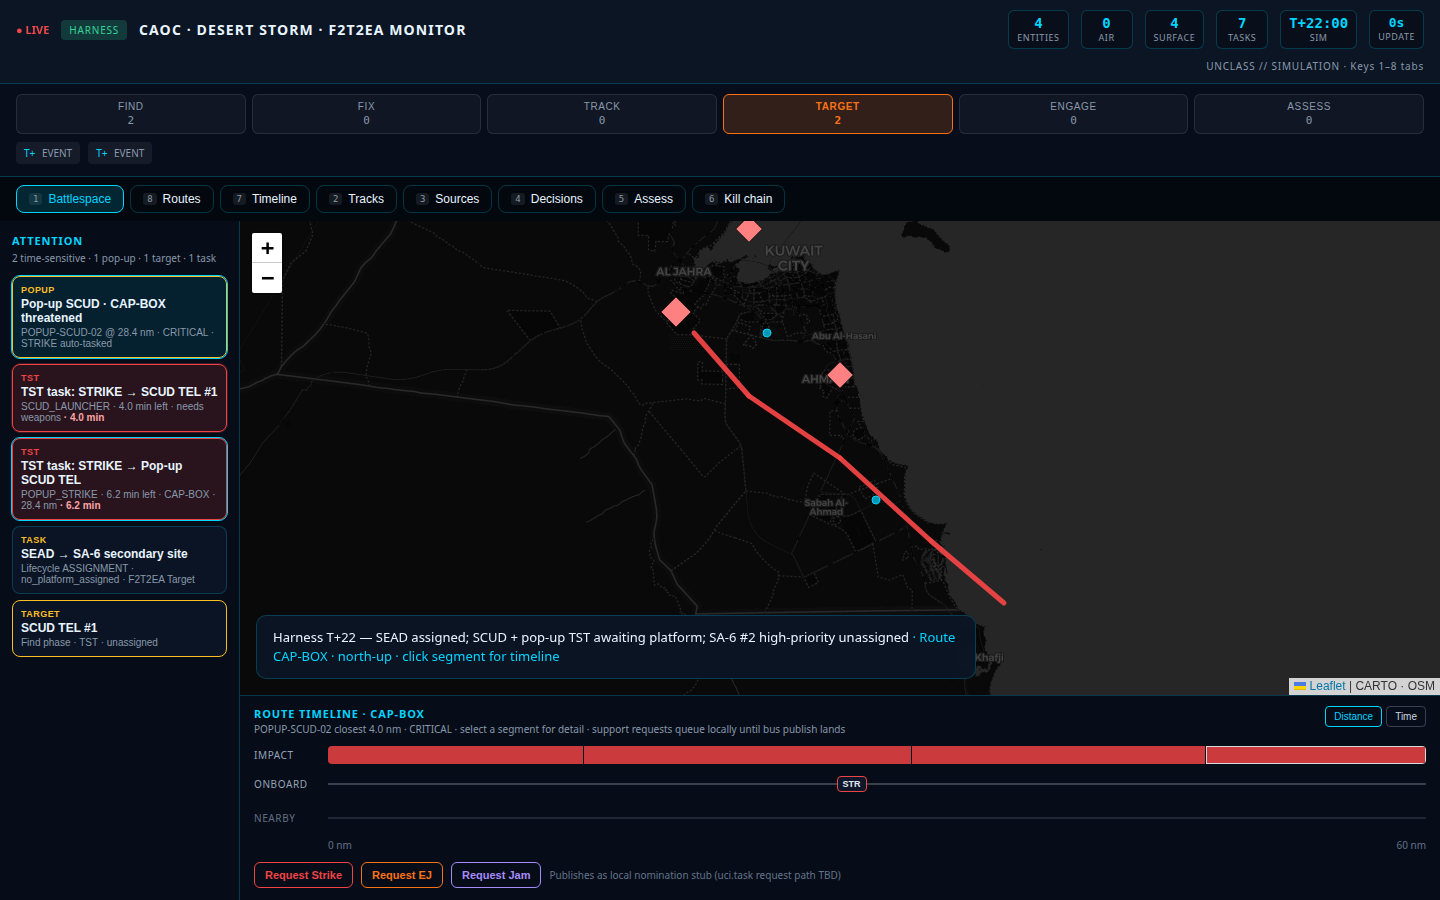
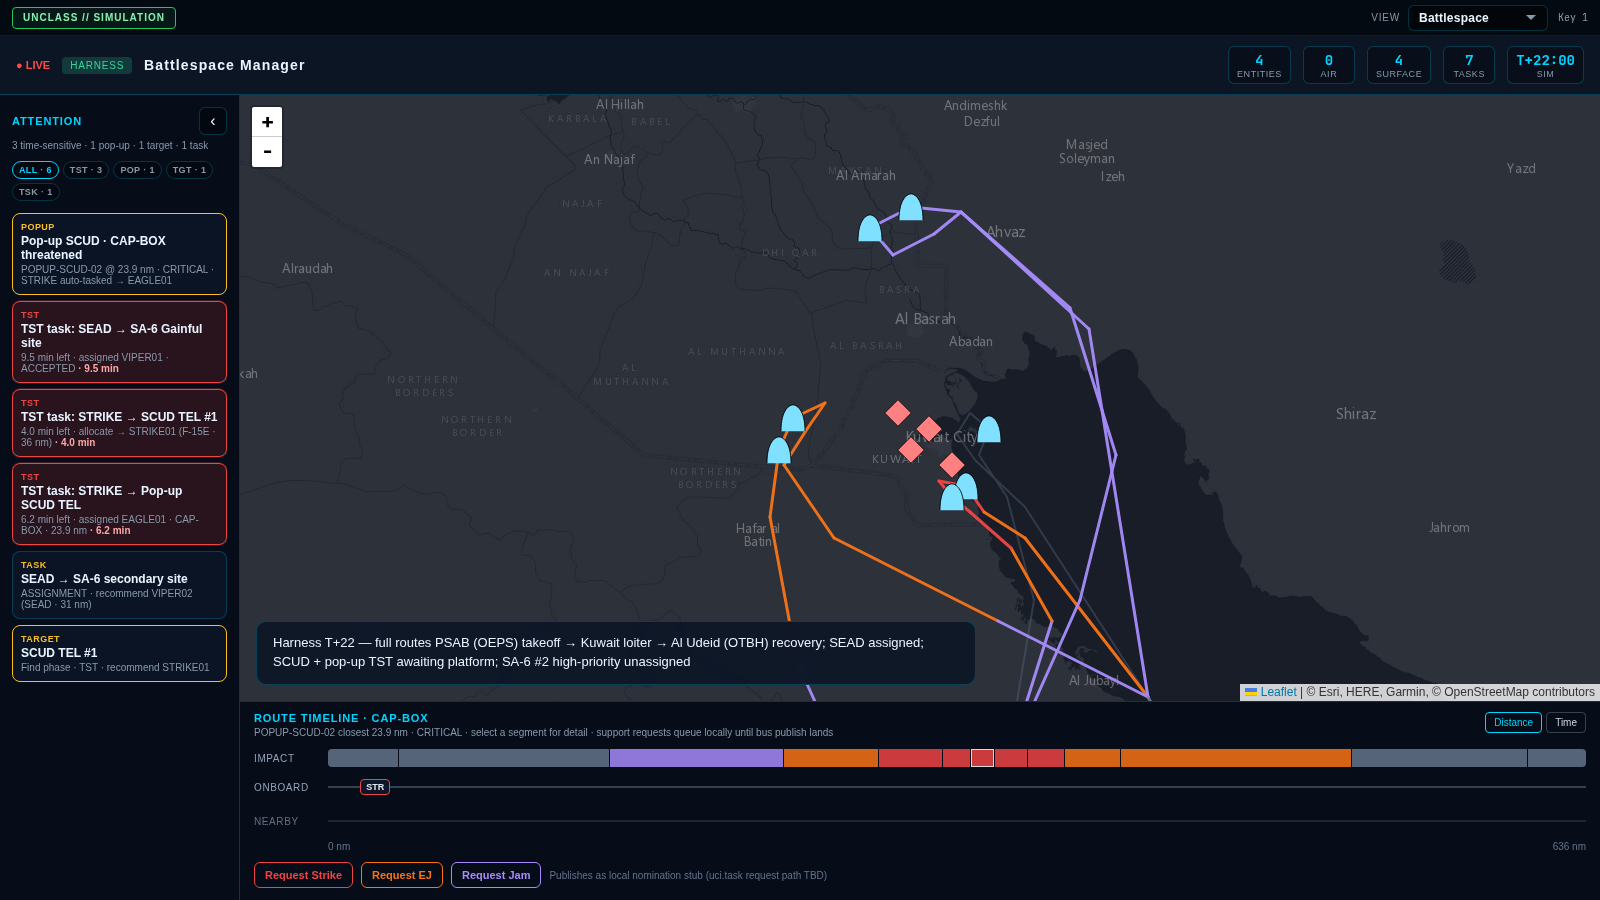
Standardize display maps on the suite dark base map (key-free Esri dark gray tiles) (#39)
* Standardize display maps on the suite dark base map (Leaflet + CartoDB Dark Matter)

- Add a per-service, dependency-free SUITE_DARK_TILES constant
  (services/*/web/src/lib/basemap.js) with the suite URL, attribution,
  subdomains and maxZoom 12
- battlespace-display, entity-display (was maxZoom 19) and rf-display maps
  now cap zoom on both the map and the tile layer and share the
  '© OSM © CARTO' attribution
- staticTiles.js derives tileUrl() from the same template (subdomain
  rotation + @2x) and clamps snapshot zoom to the suite cap; tests added
- docs/SHARED-DARK-MAP.md documents the convention; README links it

Closes #38

* Move the suite dark base map to key-free Esri dark gray tiles (base + labels)

CARTO now watermarks every un-keyed Dark Matter tile, so the suite standard
(reference: o-my-debrief docs/SHARED-DARK-MAP.md) uses Esri World Dark Gray
Canvas instead:

- SUITE_DARK_TILES / SUITE_DARK_LABELS per service, maxZoom 12, opacity
  over the dark map container
- all three display maps add the labels layer
- staticTiles.tileUrl() expands the Esri {z}/{y}/{x} template; tests updated
- docs and README reflect the provider change

* Refresh display screenshots on the suite dark base map

diff --git a/services/battlespace-display/web/src/lib/basemap.js b/services/battlespace-display/web/src/lib/basemap.js
@@ -1,0 +1,34 @@
+/**
+ * o-my suite shared dark base map.
+ *
+ * Same values as the reference implementation in o-my-debrief
+ * (frontend/src/lib/basemap.js, docs/SHARED-DARK-MAP.md) and the copy in
+ * o-my-mission-plan. Each battlespace web app is built on its own, so the
+ * constants are duplicated per service rather than imported across services;
+ * keep every copy identical (docs/SHARED-DARK-MAP.md in this repo).
+ *
+ *   - Tiles        Esri World Dark Gray Canvas: base + reference (labels)
+ *   - maxZoom      12  (regional demo scale; no street-level detail)
+ *   - opacity      0.65 base / 0.45 labels over a dark (#0b1220-ish) container
+ *   - attribution  "© Esri, HERE, Garmin, © OpenStreetMap contributors"
+ *   - no API key, no paid provider (CARTO Dark Matter now watermarks un-keyed tiles)
+ *
+ * Usage (Leaflet):
+ *   const map = L.map(el, { maxZoom: SUITE_DARK_TILES.maxZoom });
+ *   L.tileLayer(SUITE_DARK_TILES.url, SUITE_DARK_TILES).addTo(map);
+ *   L.tileLayer(SUITE_DARK_LABELS.url, SUITE_DARK_LABELS).addTo(map);
+ *
+ * Intentionally dependency-free so non-Leaflet code (staticTiles.js) can share it.
+ */
+export const SUITE_DARK_TILES = Object.freeze({
+  url: "https://server.arcgisonline.com/ArcGIS/rest/services/Canvas/World_Dark_Gray_Base/MapServer/tile/{z}/{y}/{x}",
+  attribution: "&copy; Esri, HERE, Garmin, &copy; OpenStreetMap contributors",
+  maxZoom: 12,
+  opacity: 0.65,
+});
+
+export const SUITE_DARK_LABELS = Object.freeze({
+  url: "https://server.arcgisonline.com/ArcGIS/rest/services/Canvas/World_Dark_Gray_Reference/MapServer/tile/{z}/{y}/{x}",
+  maxZoom: SUITE_DARK_TILES.maxZoom,
+  opacity: 0.45,
+});

diff --git a/services/entity-display/web/src/lib/basemap.js b/services/entity-display/web/src/lib/basemap.js
@@ -1,0 +1,34 @@
+/**
+ * o-my suite shared dark base map.
+ *
+ * Same values as the reference implementation in o-my-debrief
+ * (frontend/src/lib/basemap.js, docs/SHARED-DARK-MAP.md) and the copy in
+ * o-my-mission-plan. Each battlespace web app is built on its own, so the
+ * constants are duplicated per service rather than imported across services;
+ * keep every copy identical (docs/SHARED-DARK-MAP.md in this repo).
+ *
+ *   - Tiles        Esri World Dark Gray Canvas: base + reference (labels)
+ *   - maxZoom      12  (regional demo scale; no street-level detail)
+ *   - opacity      0.65 base / 0.45 labels over a dark (#0b1220-ish) container
+ *   - attribution  "© Esri, HERE, Garmin, © OpenStreetMap contributors"
+ *   - no API key, no paid provider (CARTO Dark Matter now watermarks un-keyed tiles)
+ *
+ * Usage (Leaflet):
+ *   const map = L.map(el, { maxZoom: SUITE_DARK_TILES.maxZoom });
+ *   L.tileLayer(SUITE_DARK_TILES.url, SUITE_DARK_TILES).addTo(map);
+ *   L.tileLayer(SUITE_DARK_LABELS.url, SUITE_DARK_LABELS).addTo(map);
+ *
+ * Intentionally dependency-free so non-Leaflet code (staticTiles.js) can share it.
+ */
+export const SUITE_DARK_TILES = Object.freeze({
+  url: "https://server.arcgisonline.com/ArcGIS/rest/services/Canvas/World_Dark_Gray_Base/MapServer/tile/{z}/{y}/{x}",
+  attribution: "&copy; Esri, HERE, Garmin, &copy; OpenStreetMap contributors",
+  maxZoom: 12,
+  opacity: 0.65,
+});
+
+export const SUITE_DARK_LABELS = Object.freeze({
+  url: "https://server.arcgisonline.com/ArcGIS/rest/services/Canvas/World_Dark_Gray_Reference/MapServer/tile/{z}/{y}/{x}",
+  maxZoom: SUITE_DARK_TILES.maxZoom,
+  opacity: 0.45,
+});

diff --git a/services/rf-display/web/src/lib/basemap.js b/services/rf-display/web/src/lib/basemap.js
@@ -1,0 +1,34 @@
+/**
+ * o-my suite shared dark base map.
+ *
+ * Same values as the reference implementation in o-my-debrief
+ * (frontend/src/lib/basemap.js, docs/SHARED-DARK-MAP.md) and the copy in
+ * o-my-mission-plan. Each battlespace web app is built on its own, so the
+ * constants are duplicated per service rather than imported across services;
+ * keep every copy identical (docs/SHARED-DARK-MAP.md in this repo).
+ *
+ *   - Tiles        Esri World Dark Gray Canvas: base + reference (labels)
+ *   - maxZoom      12  (regional demo scale; no street-level detail)
+ *   - opacity      0.65 base / 0.45 labels over a dark (#0b1220-ish) container
+ *   - attribution  "© Esri, HERE, Garmin, © OpenStreetMap contributors"
+ *   - no API key, no paid provider (CARTO Dark Matter now watermarks un-keyed tiles)
+ *
+ * Usage (Leaflet):
+ *   const map = L.map(el, { maxZoom: SUITE_DARK_TILES.maxZoom });
+ *   L.tileLayer(SUITE_DARK_TILES.url, SUITE_DARK_TILES).addTo(map);
+ *   L.tileLayer(SUITE_DARK_LABELS.url, SUITE_DARK_LABELS).addTo(map);
+ *
+ * Intentionally dependency-free so non-Leaflet code (staticTiles.js) can share it.
+ */
+export const SUITE_DARK_TILES = Object.freeze({
+  url: "https://server.arcgisonline.com/ArcGIS/rest/services/Canvas/World_Dark_Gray_Base/MapServer/tile/{z}/{y}/{x}",
+  attribution: "&copy; Esri, HERE, Garmin, &copy; OpenStreetMap contributors",
+  maxZoom: 12,
+  opacity: 0.65,
+});
+
+export const SUITE_DARK_LABELS = Object.freeze({
+  url: "https://server.arcgisonline.com/ArcGIS/rest/services/Canvas/World_Dark_Gray_Reference/MapServer/tile/{z}/{y}/{x}",
+  maxZoom: SUITE_DARK_TILES.maxZoom,
+  opacity: 0.45,
+});

diff --git a/services/battlespace-display/web/src/App.svelte b/services/battlespace-display/web/src/App.svelte
@@ -1,6 +1,7 @@
 <script>
   import { onMount, onDestroy } from "svelte";
   import L from "leaflet";
+  import { SUITE_DARK_LABELS, SUITE_DARK_TILES } from "./lib/basemap.js";
   import KillChainPanel from "./KillChainPanel.svelte";
   import TaskingPanel from "./TaskingPanel.svelte";
   import TracksPanel from "./TracksPanel.svelte";
@@ -508,11 +509,14 @@
     const phase = params.get("phase");
     if (phase && tab === "killchain") killChainPhaseFilter = phase;
     window.addEventListener("keydown", onKey);
-    map = L.map("map", { zoomControl: true, preferCanvas: true }).setView([29.75, 47.75], 7);
-    L.tileLayer("https://{s}.basemaps.cartocdn.com/dark_all/{z}/{x}/{y}{r}.png", {
-      attribution: "CARTO · OSM",
-      maxZoom: 12,
-    }).addTo(map);
+    // Suite-standard dark base map (see lib/basemap.js, docs/SHARED-DARK-MAP.md).
+    map = L.map("map", {
+      zoomControl: true,
+      preferCanvas: true,
+      maxZoom: SUITE_DARK_TILES.maxZoom,
+    }).setView([29.75, 47.75], 7);
+    L.tileLayer(SUITE_DARK_TILES.url, SUITE_DARK_TILES).addTo(map);
+    L.tileLayer(SUITE_DARK_LABELS.url, SUITE_DARK_LABELS).addTo(map);
     connectStream();
     void loadPicture();
     pictureRetryTimer = setInterval(() => {

diff --git a/services/entity-display/web/src/App.svelte b/services/entity-display/web/src/App.svelte
@@ -1,6 +1,7 @@
 <script>
   import { onMount, onDestroy } from "svelte";
   import L from "leaflet";
+  import { SUITE_DARK_LABELS, SUITE_DARK_TILES } from "./lib/basemap.js";
   import { filterTracks, trackAffiliation, isMoving } from "./lib/trackFilters.js";
   import {
     OVERLAY_DEFAULTS,
@@ -463,11 +464,13 @@
   onMount(() => {
     const defaultCenter = mapView ? [mapView.center_lat, mapView.center_lon] : [34.05, -118.2];
     const defaultZoom = mapView?.zoom ?? 7;
-    map = L.map("map", { zoomControl: false }).setView(defaultCenter, defaultZoom);
-    L.tileLayer("https://{s}.basemaps.cartocdn.com/dark_all/{z}/{x}/{y}{r}.png", {
-      attribution: '&copy; <a href="https://www.openstreetmap.org/copyright">OSM</a> CARTO',
-      maxZoom: 19,
-    }).addTo(map);
+    // Suite-standard dark base map (see lib/basemap.js, docs/SHARED-DARK-MAP.md).
+    map = L.map("map", { zoomControl: false, maxZoom: SUITE_DARK_TILES.maxZoom }).setView(
+      defaultCenter,
+      defaultZoom,
+    );
+    L.tileLayer(SUITE_DARK_TILES.url, SUITE_DARK_TILES).addTo(map);
+    L.tileLayer(SUITE_DARK_LABELS.url, SUITE_DARK_LABELS).addTo(map);
     connectStream();
     loadStats();
     const statsTimer = setInterval(loadStats, 5000);

diff --git a/services/battlespace-display/web/src/lib/staticTiles.js b/services/battlespace-display/web/src/lib/staticTiles.js
@@ -1,4 +1,10 @@
-/** Slippy-map tile math for a frozen location snapshot (no Leaflet). */
+/**
+ * Slippy-map tile math for a frozen location snapshot (no Leaflet).
+ *
+ * Tiles come from the same suite dark base map as the live Leaflet views so a
+ * snapshot and the map look identical (see basemap.js, docs/SHARED-DARK-MAP.md).
+ */
+import { SUITE_DARK_TILES } from "./basemap.js";
 
 export function hasFix(lat, lon) {
   const a = Number(lat);
@@ -14,12 +20,17 @@ export function latLonToTile(lat, lon, z) {
   return { x, y, z };
 }
 
+/** Expand the suite base-tile template exactly as Leaflet would for the live map. */
 export function tileUrl(z, x, y) {
-  return `https://basemaps.cartocdn.com/dark_all/${z}/${x}/${y}@2x.png`;
+  return SUITE_DARK_TILES.url
+    .replace("{z}", String(z))
+    .replace("{x}", String(x))
+    .replace("{y}", String(y));
 }
 
 export function snapshotTiles(lat, lon, z = 8) {
   if (!hasFix(lat, lon)) return [];
+  z = Math.min(z, SUITE_DARK_TILES.maxZoom);
   const c = latLonToTile(lat, lon, z);
   const tiles = [];
   for (let dy = -1; dy <= 1; dy += 1) {

diff --git a/services/rf-display/web/src/GeoFilterMap.svelte b/services/rf-display/web/src/GeoFilterMap.svelte
@@ -1,6 +1,7 @@
 <script>
   import { onMount, onDestroy } from "svelte";
   import L from "leaflet";
+  import { SUITE_DARK_LABELS, SUITE_DARK_TILES } from "./lib/basemap.js";
   import {
     buildGeoFilterPayload,
     filterStyleForType,
@@ -254,10 +255,13 @@
 
   onMount(() => {
     if (!mapEl) return;
-    map = L.map(mapEl, { zoomControl: true }).setView([28.8, 48.2], 7);
-    L.tileLayer("https://{s}.basemaps.cartocdn.com/dark_all/{z}/{x}/{y}{r}.png", {
-      maxZoom: 12,
-    }).addTo(map);
+    // Suite-standard dark base map (see lib/basemap.js, docs/SHARED-DARK-MAP.md).
+    map = L.map(mapEl, { zoomControl: true, maxZoom: SUITE_DARK_TILES.maxZoom }).setView(
+      [28.8, 48.2],
+      7,
+    );
+    L.tileLayer(SUITE_DARK_TILES.url, SUITE_DARK_TILES).addTo(map);
+    L.tileLayer(SUITE_DARK_LABELS.url, SUITE_DARK_LABELS).addTo(map);
     map.on("click", onMapClick);
     setTimeout(() => map?.invalidateSize(), 100);
     updateAssets();

diff --git a/services/battlespace-display/web/src/lib/staticTiles.test.js b/services/battlespace-display/web/src/lib/staticTiles.test.js
@@ -1,7 +1,22 @@
 import { describe, expect, it } from "vitest";
-import { hasFix, latLonToTile, seedHue } from "./staticTiles.js";
+import { SUITE_DARK_TILES } from "./basemap.js";
+import { hasFix, latLonToTile, seedHue, snapshotTiles, tileUrl } from "./staticTiles.js";
 
 describe("staticTiles", () => {
+  it("renders the suite dark tile endpoint", () => {
+    const url = tileUrl(8, 161, 107);
+    expect(url).toBe(
+      "https://server.arcgisonline.com/ArcGIS/rest/services/Canvas/World_Dark_Gray_Base/MapServer/tile/8/107/161",
+    );
+    expect(url).not.toContain("{");
+  });
+
+  it("keeps snapshots within the suite zoom cap", () => {
+    const tiles = snapshotTiles(29.5, 47.7, 18);
+    expect(tiles).toHaveLength(9);
+    for (const t of tiles) expect(t.url).toContain(`/tile/${SUITE_DARK_TILES.maxZoom}/`);
+  });
+
   it("rejects missing fixes", () => {
     expect(hasFix(0, 0)).toBe(false);
     expect(hasFix(29.5, 47.7)).toBe(true);

diff --git a/docs/SHARED-DARK-MAP.md b/docs/SHARED-DARK-MAP.md
@@ -1,0 +1,63 @@
+# Shared dark map base (o-my suite convention)
+
+Every battlespace display map draws on the same key-free dark base map as
+`o-my-debrief` and `o-my-mission-plan`, so the plan / battlespace / debrief
+consoles look alike in demos. The canonical write-up lives in the reference
+repo: [`o-my-debrief/docs/SHARED-DARK-MAP.md`](https://github.com/mowgli42/o-my-debrief/blob/main/docs/SHARED-DARK-MAP.md).
+
+## The convention
+
+| Setting | Value |
+| --- | --- |
+| Library | Leaflet 1.9.x |
+| Tiles | Esri World Dark Gray Canvas — base layer + reference (labels) layer |
+| Base URL | `https://server.arcgisonline.com/ArcGIS/rest/services/Canvas/World_Dark_Gray_Base/MapServer/tile/{z}/{y}/{x}` |
+| Labels URL | `https://server.arcgisonline.com/ArcGIS/rest/services/Canvas/World_Dark_Gray_Reference/MapServer/tile/{z}/{y}/{x}` |
+| `maxZoom` | **12** — regional demo scale, no street-level detail |
+| Opacity | base `0.65`, labels `0.45`, over the dark `#08142b` / `#0a1018` map container |
+| Attribution | `© Esri, HERE, Garmin, © OpenStreetMap contributors` |
+| API key | none; no paid provider |
+
+```js
+import { SUITE_DARK_LABELS, SUITE_DARK_TILES } from "./lib/basemap.js";
+
+const map = L.map(el, { maxZoom: SUITE_DARK_TILES.maxZoom });
+L.tileLayer(SUITE_DARK_TILES.url, SUITE_DARK_TILES).addTo(map);
+L.tileLayer(SUITE_DARK_LABELS.url, SUITE_DARK_LABELS).addTo(map);
+```
+
+Set `maxZoom` on both the map and the tile layers so `fitBounds` / scroll-zoom
+cannot outrun the tiles. The Esri scheme is `{z}/{y}/{x}` (row before column)
+with no `{s}` subdomain and no `{r}` retina suffix.
+
+### Why not CartoDB Dark Matter?
+
+`staticTiles.js` and the live maps used to point at
+`basemaps.cartocdn.com/dark_all`. CARTO now serves an "API KEY REQUIRED"
+watermark on every un-keyed tile (policy change, September 2026), and the
+suite rule is *no key committed, no key required*, so the standard moved to a
+provider that is still key-free from any origin.
+
+## Where it lives in this repo
+
+Each web app is built and shipped on its own (its Dockerfile copies only its
+own `web/` directory), so the constants are duplicated per service. Keep the
+copies identical.
+
+| Service | Map | Constants |
+| --- | --- | --- |
+| battlespace-display | `web/src/App.svelte` (`#map`) | `web/src/lib/basemap.js` |
+| entity-display | `web/src/App.svelte` (`#map`) | `web/src/lib/basemap.js` |
+| rf-display | `web/src/GeoFilterMap.svelte` | `web/src/lib/basemap.js` |
+
+### Static snapshots
+
+`services/battlespace-display/web/src/lib/staticTiles.js` paints a frozen 3×3
+tile mosaic for target imagery without Leaflet. `tileUrl()` expands the same
+base template and `snapshotTiles()` clamps `z` to the suite `maxZoom`, so a
+snapshot and the live map use identical tiles. `staticTiles.test.js` guards this.
+
+## Changing it
+
+Change the reference constants in `o-my-debrief` first, then update the three
+copies here and `o-my-mission-plan`.

diff --git a/README.md b/README.md
@@ -80,7 +80,7 @@ Tactical COP architecture is documented in [ADR 001 — tactical COP stack](docs
 | **Contracts** | Zod `Track` model, `picture_contract.py` | UCI XML → categorized entities |
 | **Tests** | vitest (web), Python unittest (API) | vitest, Python unittest |
 
-**Shared conventions:** UCI message contracts via `uci_common`, compat banner (`compat/tested-against.json`), CARTO dark basemap tiles.
+**Shared conventions:** UCI message contracts via `uci_common`, compat banner (`compat/tested-against.json`), key-free dark basemap tiles ([suite convention](docs/SHARED-DARK-MAP.md): Esri dark gray canvas, `maxZoom` 12).
 
 **Implemented (COP phases 0–4):** typed track model, picture JSON contract, MIL-STD-2525D map markers, aligned per-aircraft timeline (25% elapsed / 75% upcoming, zoom 10 min–12 h), F2T2EA **kanban** (assign via Decisions), static task imagery (Map / EO / IR / SAR), attention rail + Sources from `uci.service.status`.
 
